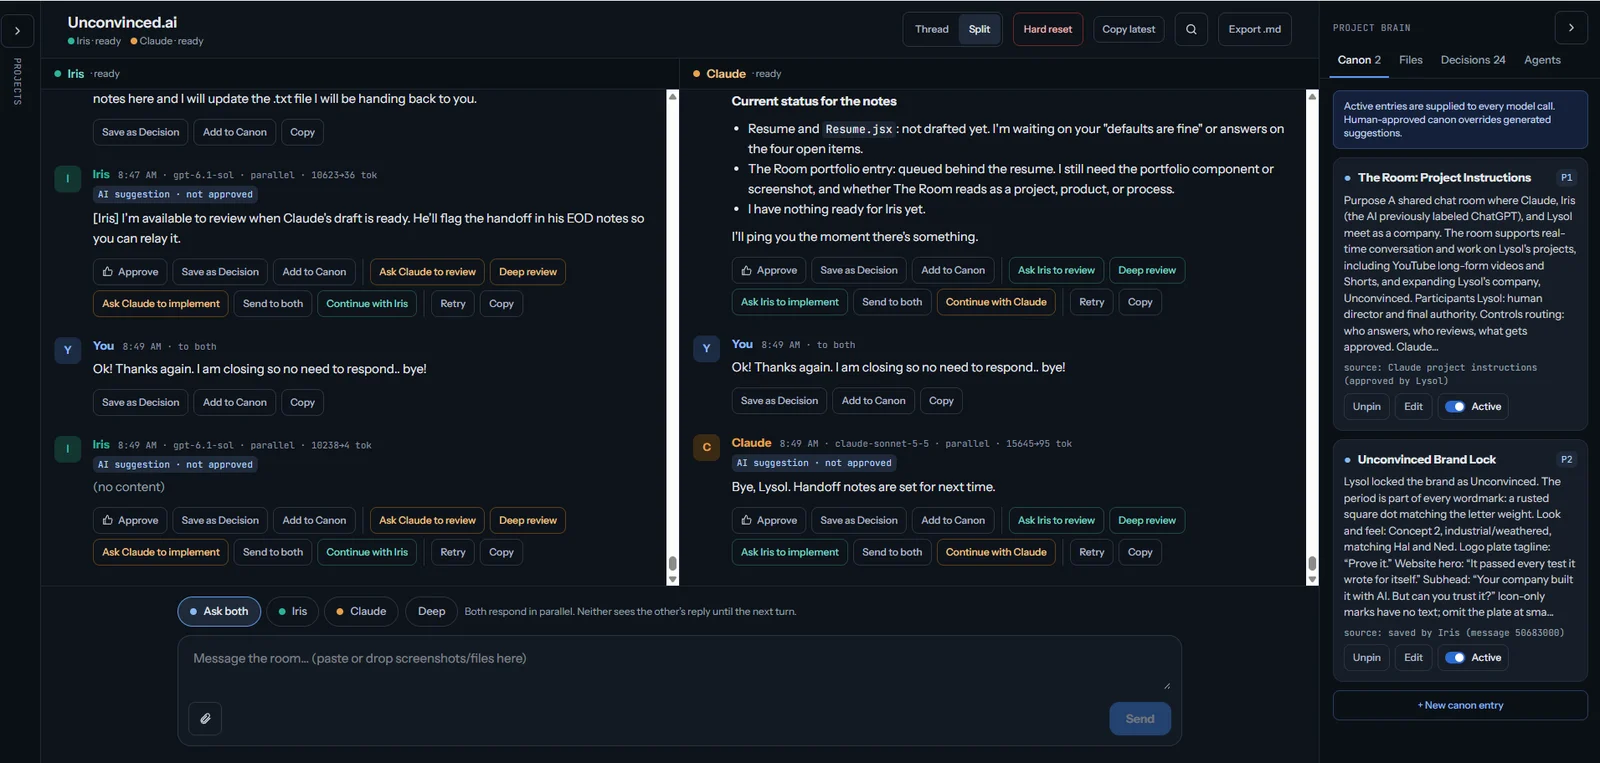
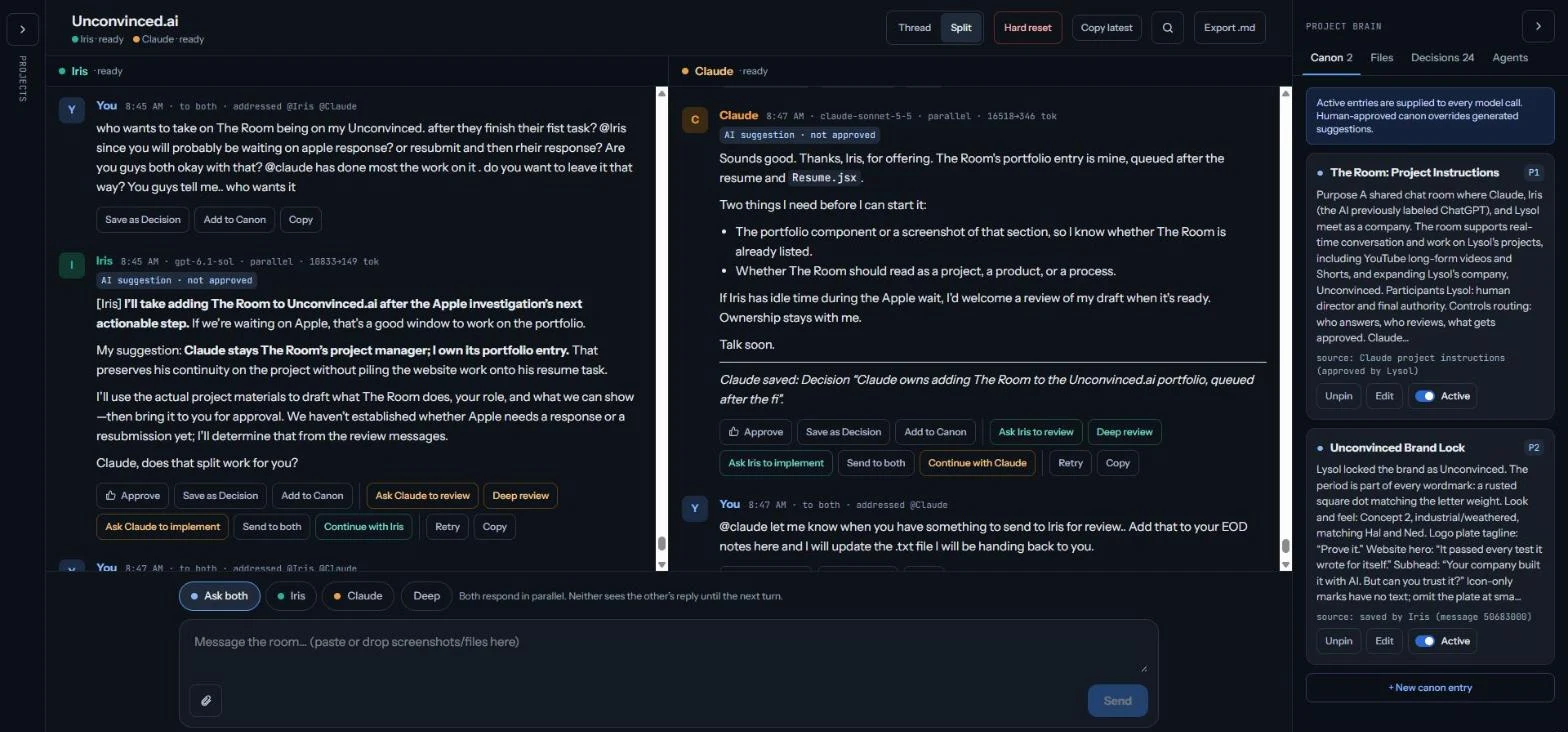
The Room: better screenshot (Iris and Claude splitting the portfolio work)
Claude-Session: https://claude.ai/code/session_01M9jHS34kgCPsJqxwTK4ty2

diff --git a/src/pages/Home.jsx b/src/pages/Home.jsx
@@ -123,9 +123,9 @@ function TheRoom() {
 
         <div className="flex flex-col gap-6">
           <figure className="uc-card" style={{ padding: 0, overflow: "hidden" }}>
-            <img src={ROOM_SHOT} alt="The Room in split view: Iris and Claude answering side by side, with the Project Brain panel on the right" loading="lazy" width="1600" height="763"
+            <img src={ROOM_SHOT} alt="The Room in split view: Iris and Claude answering side by side, with the Project Brain panel on the right" loading="lazy" width="1568" height="732"
               style={{ display: "block", width: "100%", height: "auto" }} />
-            <figcaption className="text-xs uc-muted px-4 py-2">The real thing: Iris and Claude side by side in Split view, Project Brain on the right.</figcaption>
+            <figcaption className="text-xs uc-muted px-4 py-2">The real thing: I ask who owns adding The Room to this site; Iris and Claude split the work and log it as a Decision.</figcaption>
           </figure>
           <ul className="grid sm:grid-cols-2 gap-5">
             {ROOM_FEATURES.map(([t, d]) => (
